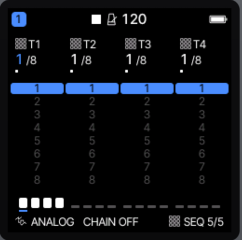
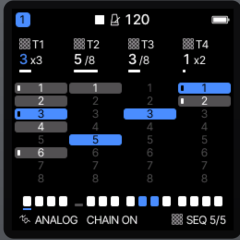
removing hopefully the last bit of LLM cruft that isn't gated, and fixing the patterns picture so it is a more complex setup and shows off pattern chaining

Changed region(s): [[0.0, 0.0, 1.0, 1.0], [0.0583, 0.8167, 0.9625, 0.9625], [0.8458, 0.0583, 0.9625, 0.1167]]

diff --git a/README.md b/README.md
@@ -81,45 +81,45 @@ We'll go through these in order.
 ## 8 sequences, one sequence chain option.
 
 Each track plays one of eight sequences. A sequence has its own steps, its own length, and its own automation and parameter
-locks (up to 64 records while it is not the one playing). DIV, SWING, GATE, QUANTIZE and the sound are set per track. 
-To see details on which sequence is playing and chain status, go to **SEQ > SEQUENCE** (the ending SEQ page, page 5). The knobs pick the sequence. Sequences are chosen top-down under the knobs.
+locks (up to 64 records while it is not the one playing). DIV, SWING, GATE, QUANTIZE and the sound engine are set per track and you can't have different settings per sequence for them.
+The page that shows this is at the end of the SEQ menu. The P1 - P4 knobs pick the sequence for each track that is both being played and edited: sequences are listed top-down.
 
-You can switch sequences either immediately, or at the end of a page. This setting is at **MENU > CONTROL 2 > SEQ SWITCH**.
-- To select sequence chain on a sequence: (SEQ > SEQUENCE, PRESETS): turn PRESETS right to add the selected pattern to the chain. The sequences you chain play one after the other in order. A sequence you did not chain loops by itself.
-  In the track it shows how long the chain is under 'T2', and each sequence in a chain has a little dot on its left. The bottom of the screen also shows "CHAIN ON" or "CHAIN OFF" for the selected sequence.
-- Using sequences in Song Mode: In the song mode ( click GLO ), the PRESETS knob changes the sequence that the selected cell plays. By default it'll play the sequence that the project was saved on, but you can choose any of the 8 sequences of a project's track. It will display under the PAT option [knob 3]". The footer says what PRESETS does to hopefully remind you, and a song holds up to six such chosen sequences ("TOO MANY SEQ" is displayed otherwise). This is because of space limits. You can always play it in by hand if you need :)
-- SAVE keeps all of a project's sequences (the record holds the one playing, so an older firmware still opens it). This all lives in the flash the user sample slots had.
+- You can switch sequences either immediately when you change the sequence, or at the end of a sequence. This setting is at **MENU > CONTROL 2 > SEQ SWITCH**.
+- To add or remove sequence chain on a sequence, turn the PRESETS knob. In general the PRESETS knob has been reused when sequences need anoter knob [it's also used for SONG mode]. Turn PRESETS right to add the selected pattern to the chain; turn it left to remove it from the chain. The sequences you chain play one after the other in order. A sequence that is not in a chain loops by itself.
+
+  In the track it shows how many sequences the chain is under the track header (x2, x3, etc). Each sequence in a chain has a dot on its left that shows that it's a part of the chain. The bottom of the screen also shows "CHAIN ON" or "CHAIN OFF" for the selected track when you are on it [using the algorithm knob].
+- To play different sequences in Song Mode, in the song mode ( click GLO ) the PRESETS knob changes the sequence that the selected cell plays. By default it'll play the sequence that the project was saved on, but you can choose any of the sequences within a track for it to play. It will display under the PAT option [knob 3]". The footer says what PRESETS does to hopefully remind you that you can do this. A song holds up to six such chosen sequences ("TOO MANY SEQ" is displayed otherwise) because of space limits. You can always play it in by hand if you need :)
+- SAVE keeps all of a project's sequences, as well as the sequence that is playing at the time you save. Fun fast: this lives in the flash the user sample slots had, it's a lot more data.
 
 ## Preset changing per step
 
-You can set a different preset per step. The preset needs to be of the same synth engine as the track is set to.
-To do this go to SEQ, then the DETAIL 2 page (3/5), and you can see an option for the step you selected on page 1. You can also set the specific action individually on the 4th page of the SEQ menu.
-This is an optional setting that is processed as though there is a settings change for the step.
-... There are also other things you can tweak per step on that page that aren't the presets, but the reason the page is there is to have a quicker way to swap presets.
+You can set a different preset per step. The preset needs to be of the same synth engine as the track is set to, and it resets on every step - because there are only 64 actions per track you may feel this limiting if you have a lot of different ideas, but you can get around it with some creative workarounds.
+To do this in the easiest way, go to SEQ, choose your step [with K1], and then page to the DETAIL 2 page. You can then scroll through and select a preset, and see if different presets are set for the 16 steps SEQ is currently set to view.
+If you prefer setting this in list mode, you can also set the specific action individually on the 4th page of the SEQ menu.
 
 ## The generative arpeggiator
 
-The arp mode has a new value at the end of the menu, **GEN** (Generative): the track plays by itself while the music plays. This follows play/stop.
-Whether the arpeggiator is on or not doesn't affect the current sequence, so the generated notes will play at the same time as sequence notes if the sequence has notes in it.
+The arp mode has a new value at the end of the menu, GEN (Generative), and a page to control the generative settings. The track plays by itself if the FM-1 is playing.
+
+NOTE/WARNING: Whether the arpeggiator is on or not doesn't affect the current sequence, so the generated notes will play at the same time as sequence notes if the sequence has notes in it.
 Everything that affects the ARP also affects this generative mode - for instance, it only plays notes as set in the SCL mode you can access in the SEL button menu.
 
-**ARP > GEN** (the third ARP page) has these knobs to control the randomization for the selected track:
-- **DENS** (KNOB 1): Density. This controls how many note events are created. Turning it up adds notes to the same loop and turning it down takes them away; 0 plays nothing, 100 % makes a note on every step.
-- **CHORD** (KNOB 2): Chord. This controls the 'spiciness' of the created notes. 0 plays single notes, and from 1 a growing share of the steps are chords.
-- All of the notes are chords from halfway through but the odds are that they get fancier and fancier as you keep going.
-- **EVOLVE** (KNOB 3): Evolve. How much the loop changes after each play. 0 repeats it exactly; a little moves a few notes a step or two in the scale (now and then a new chance, chord or loudness); 100 % changes nearly every step each loop.
-- **ALGO** (KNOB 4): The algorithm the generative engine uses. It starts with no algorithm (full randomness for every note within the other parameters). At 33% it has a 'Fifths' algorithm [playing only fifths], at 67% a 'Bounce' algorithm, and at 100% it's a 'DRUMS' algorithm.
+The GEN page has these knobs to control the randomization for the selected track:
+- **DENS** (KNOB 1): Density - this controls how many note events are created. Turning it up adds notes to the same loop and turning it down takes them away; 0 plays nothing, 100 % makes a note on every step.
+- **CHORD** (KNOB 2): This controls if the created notes are chords, and the amount controls how complex the chord is. 0 plays single notes, and from 1 a growing share of the steps are chords - all of the notes are chords from halfway through, but the odds are that they get fancier and fancier as you keep going, with chords getting more notes, etc.
+- **EVOLVE** (KNOB 3): How much the loop changes after each play. 0 repeats it exactly; a little moves a few notes a step or two in the scale (now and then a new chance, chord or loudness); 100 % changes nearly every step each loop.
+- **ALGO** (KNOB 4): The algorithm the generative engine uses to bias it to pick different notes. It starts with no algorithm (full randomness for every note within the other parameters). At 33% it has a 'Fifths' algorithm [playing only fifths], at 67% a 'Bounce' algorithm, and at 100% it's a 'DRUMS' algorithm Those algorithm settings are simply biased to hitting different notes differently.
 
-- To change the length of the generated loop, you need to change the length of the underlying sequence. Hold SEQ and you can change LEN there - it only generates up to 32 steps though, at the arp's RATE. SWinG, GATE and PROBability apply too.
-- The knobs are saved with the sequence banks (project SAVE, RESTORE LAST); the loop itself is made when GEN starts and when a project loads, and keeps through STOP and PLAY.
-- Record-arm a track to record the generated notes into the underlying sequence if it makes something you really like!
+- To change the length of the generated loop, you need to change the length of the underlying sequence. Hold SEQ and you can change LEN there - it only generates up to 32 steps though, at the arp's rate. Swing, Gate, and Probability apply too.
+- The knobs are saved with the sequence banks (project SAVE, RESTORE LAST); the loop itself is made either when GEN starts or when a project loads, and simply pauses if you pause the FM-1.
+- Record-arm a track to record the generated notes into the underlying sequence if it makes something you really like. You will probably want to disable the arpeggiator after that; otherwise the saved notes and the generated notes will play at the same time. With 8 sequences, though, you can also save a sequence and then switch to a new sequence, and save different generated patterns you like that way.
 
 ## Chord Improvements and modes
 
 Multiple new chord-playing modes have been added to this firmware.
 
-The CHORD page's CHRD has three new values. Two of them, **STR3** and **STR7**, use the black keys to select a chord, which changes what the white keys are.
-Then, with that black key held, you can play the white keys as all of the notes in that chord, either strumming a chord or playing a chord as you want. The LLM says it this way:
+First off, the smaller change - there are three new CHRD options on page 2 of the SEL menu.
+Two of them, **STR3** and **STR7**, use the black keys to select a chord and then let you play the white keys as the individual notes that work with that chord. The LLM describes it this way:
 
 - **Black keys** (F#3 .. F#5, eleven) choose the chord and make no sound: the diatonic triad (STR3) or seventh (STR7) on the scale's
   1st, 2nd, 3rd ... degree (the track's ROOT and SCALE; a chromatic scale uses the major scale of ROOT), the keys past the scale's
@@ -129,15 +129,15 @@ Then, with that black key held, you can play the white keys as all of the notes 
 - **VOIC** voices the chord (CLOSE, OPEN, INV1, INV2, +OCT's bass string), **TRN** and the octave buttons move it. A MONO, LEGATO or
   UNISON part plays the strings one at a time. MIDI notes, the arp and kits (DRUM, slices) play as with CHRD OFF.
 
-There is also a third new value for CHRD, **PLAY**, inspired by a popular chord engine VST. Every white key plays its chord (EG: C plays a C chord), and the 
-black keys that are held with it shape the chord. The black keys make no sound by themselves. You can also set what each black key does to set it up to your liking.
+There is also a third new value for CHRD, **PLAY**, inspired by a popular chord engine VST. This is set on the third page of the SCL menu. Every white key plays its corresponding chord (EG: C plays a C chord), and the 
+black keys that are held with it shape the chord. You can set what each black key does, and set it up to your liking.
 With the built in POP pack, for example, keys are set like this: 
 key 1 MIN, key 2 MIN7, key 3 7, key 4 MAJ7, key 5 SUS4, key 6 SUS2,
-key 7 DIM, key 8 +9, key 9 6, key 10 STRM, key 11 ARP. 
-When you hold a black key and then hit a white key note, it will play that note as a chord, modified by whatever black notes you hit. So you can strum a minor 7 C chord by holding black key 1, 3, and 10, and then hitting the white C note.
+key 7 DIM, key 8 +9, key 9 6, key 10 STRM, key 11 ARP.
+For example, with the above settings you can strum a minor 7 C chord by holding black key 1, 3, and 10, and then hitting the white C note. ... Or you can just hold key 2 and key 10.
 
 The actions (lowest black key first, so a later one changes what an earlier one set: MIN then 7 is a minor seventh; 7, +9 and +11
-stack):
+stack), as listed by LLM:
 
 - **quality** MIN, DIM, AUG, SUS2, SUS4, POW; **seventh** 6, 7, MAJ7, and MIN7, DIM7, M7B5, MMAJ7 (a quality with it); 9, MAJ9, MIN9
   (with the ninth); **extras** +9, +11, +13 (added tones), INV (the root up an octave), BASS (the root an octave down).
@@ -145,15 +145,13 @@ stack):
 - **ARP**: one note at a time, round the chord, at the track's ARP RATE and GATE, until the key is let go.
 - Up to six tones: past that the fifth goes first, then the highest. VOIC voices the chord as it does the other chord modes.
 
-**LATCH** (SCL > CHORDS, PRESETS: right is LATCH, left is HOLD): with LATCH on a black key pressed toggles its action on and a second
-press turns it off, so the chord keeps its shape with no key held; the keys whose action is on stay lit. The chord is made from the latched
-actions (a key still held does not count twice). Turning LATCH off, loading a pack, or loading the music clears them. LATCH settings are part
-of the pack, saved and loaded with it.
+To set the black keys to latch instead of needing to be held, toggle this with the PRESETS knob. With latch on, a black key pressed toggles its action on; a second press turns it off. The chord is made from the latched actions (a key still held does not count twice). LATCH settings are part of the pack, saved and loaded with it.
 
-**SCL > CHORDS** (the SCL button's third page, after SCL and CHORD) is where the black keys described above are actually set: KNOB 1 PACK, 2 KEY (which black key you're editing), 3 ACT (the action: what it
-does), 4 SPEED (for strum, 0..1000 ms between notes). The page shows all eleven black keys so you can really go wild with setting this up.
+The other settings for this menu are:
+KNOB 1 PACK, 2 KEY (which black key you're editing), 3 ACT (the action: what it does), 4 SPEED (for strum, 0..1000 ms between notes).
+The page shows all eleven black keys so you can really go wild with setting this up.
 Packs are what the black keys do and the strum speed together: six are built in (POP, JAZZ, SUS, EXT, EASY, HARP), and USER 1 through USER 4 can be changed and saved by the user. Turning KNOB 1 loads a pack at once (a "*" says it was changed since).
-**OCT+ saves** what the black keys do now into the user pack you pick.
+OCT+ saves what the black keys do into the user pack you pick.
 The packs and the keys' setting are saved with the music (project SAVE, RESTORE LAST) in the sequence bank's flash.
 
 ## Five new synth engines; one unique to this firmware, four from other firmwares
@@ -167,7 +165,7 @@ Synths from other firmwares are:
 - DRUM-X: A drum engine from the Jiant firmware, modeled after Microtonic.
 
 The unique synth in this firmware is:
-- SH-TONE: A drum engine unique to this firmware, modeled after the SH-4d's drum engine. There is both a drum engine around this with several presets, and a synth engine where you can change every setting. The architecture is:
+- SH-TONE: A drum engine unique to this firmware, loosely modeled after the SH-4d's drum engine. There is both a drum engine around this with several presets, and a synth engine where you can change every setting. The architecture is:
   - Two oscillators that can be either SIN, TRI, SAW, SQR, or NOISE.
   - You can either MIX, FM, RING, or SYNC the two oscillators at a DEPTH AMT.
   - Sweep pitch and time, and change the coarse pitch of each oscillator (TUN A, TUN B), making it easier to get a simple drum fast.
@@ -175,11 +173,11 @@ The unique synth in this firmware is:
   - Drive/Click/Fold/Crush end of chain effects.
   - An ending LP/BP/HP filter.
 
-## Other changes
+## Other non-effects changes
 
 ### SELECT is set to PAGE by default
 
-Select should be page. It's set to page. You can still change it in the menu, but it's set to page between pages by default
+You can still change it in the menu, but it's set to page between pages by default. I hate clicking the button multiple times to page between them every time, so this default was changed.
 
 ### 48 user presets
 
@@ -188,7 +186,7 @@ Note: The last 16 presets can't hold FM6 patches. This is due to some weird patc
 
 ### EDIT: DEL STEP reminder when opening the sequencer menu
 
-I always forget that EDIT deletes a step within the sequencer, and nobody ever turns on the help menus. So now it flashes when you open the sequencer up. I am still feeling this change out but I think it's good?
+It's easy to forget that EDIT deletes a step within the sequencer, and nobody ever turns on the help menus. So now this help text flashes when you open the sequencer up. I am still feeling this change out - part of me wonders if just turning HELP on by default would resolve this - but I think it's fine for now.
 
 ## Effects changes
 
@@ -200,7 +198,7 @@ The keys still play notes so watch out if you're doing it live :)
 
 ### Additional INSERT effects
 
-We've added a GRAIN effect and a TAPE effect. This is to make up for the GRANULAR engine being removed. They're pretty simple but still fun!
+We've added a GRAIN effect and a TAPE effect. This is to make up for the GRANULAR engine being removed [because it needed samples as an input]. They're pretty simple, but still fun!
 
 ## Todo
 
